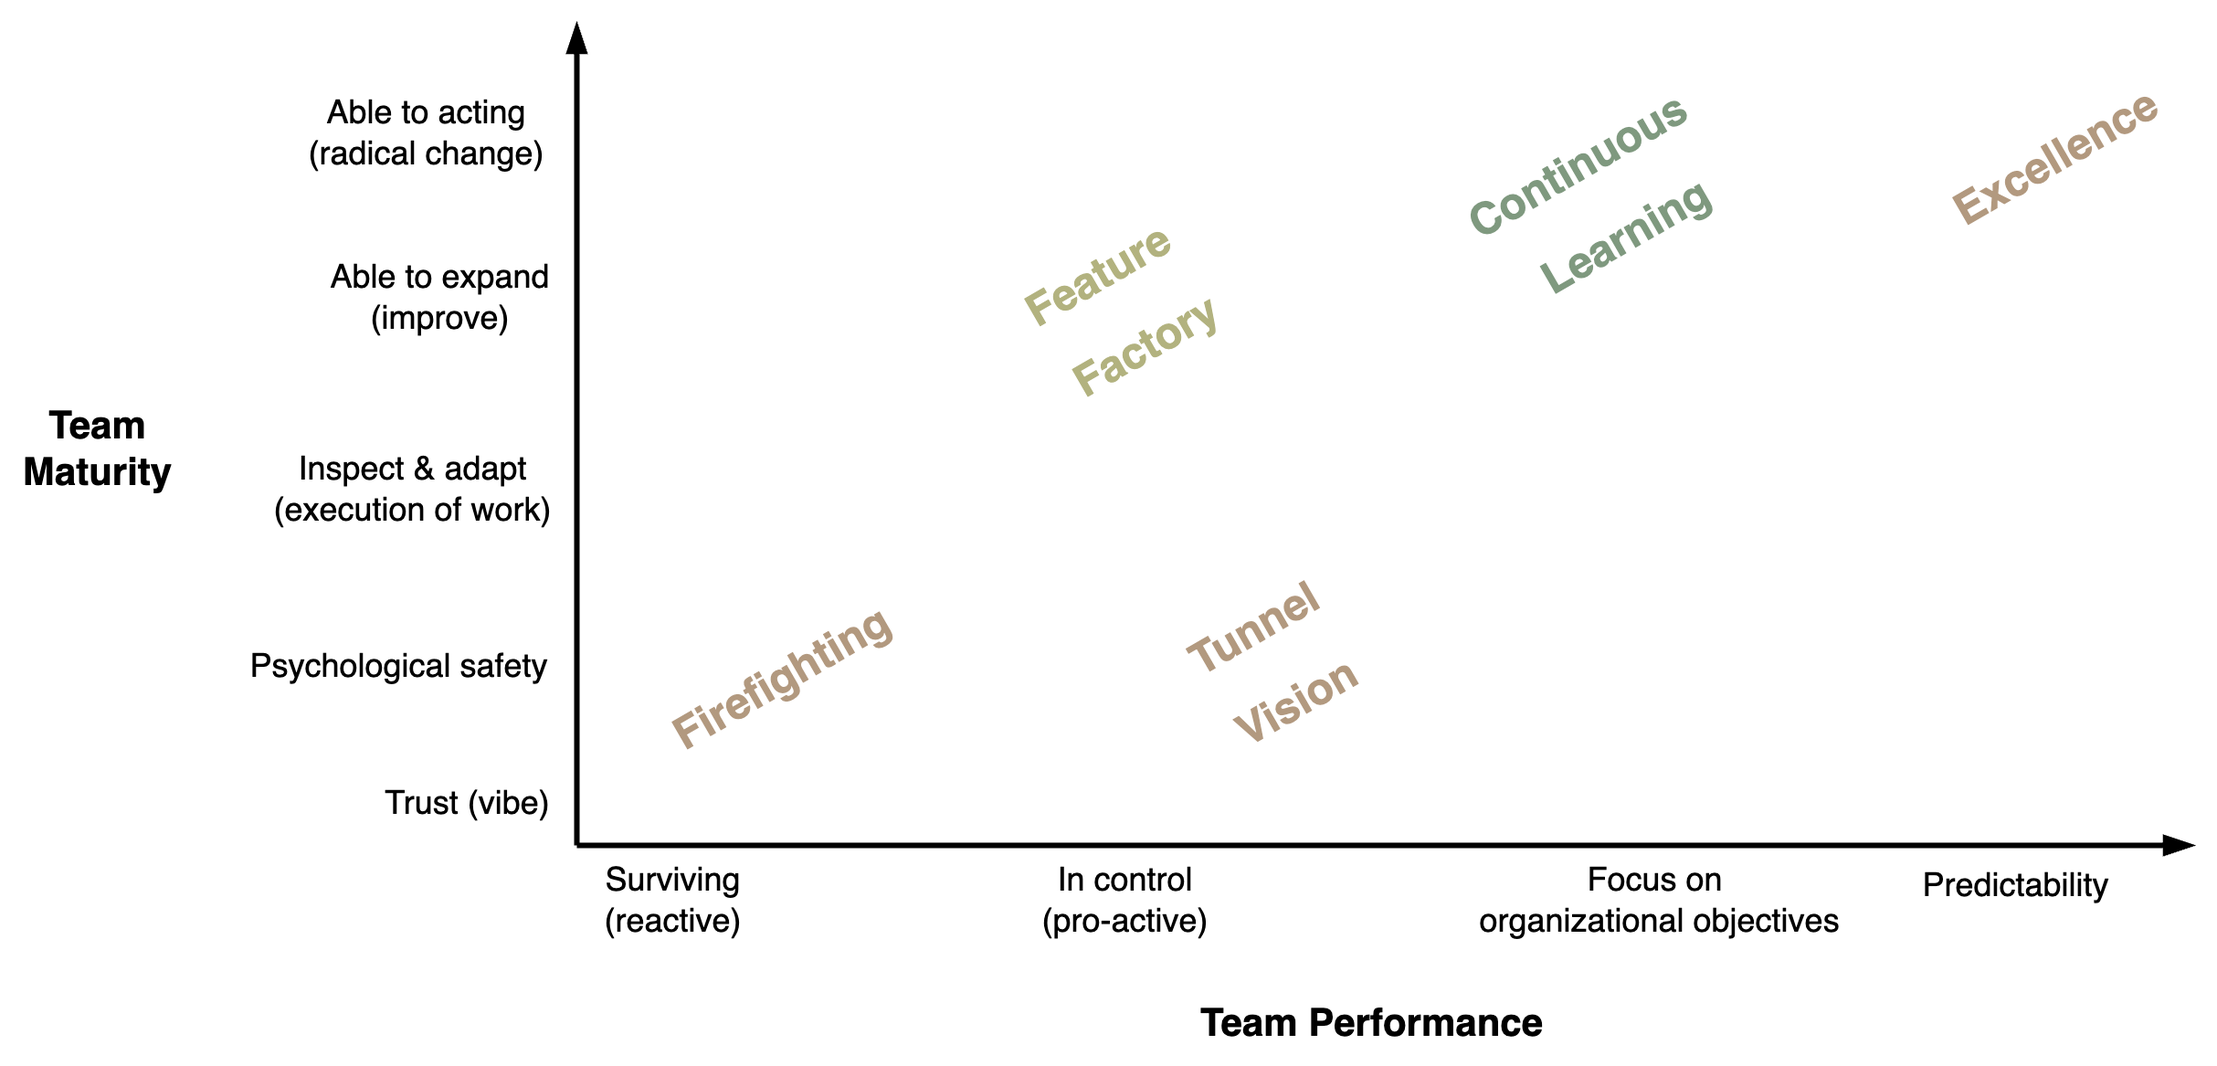
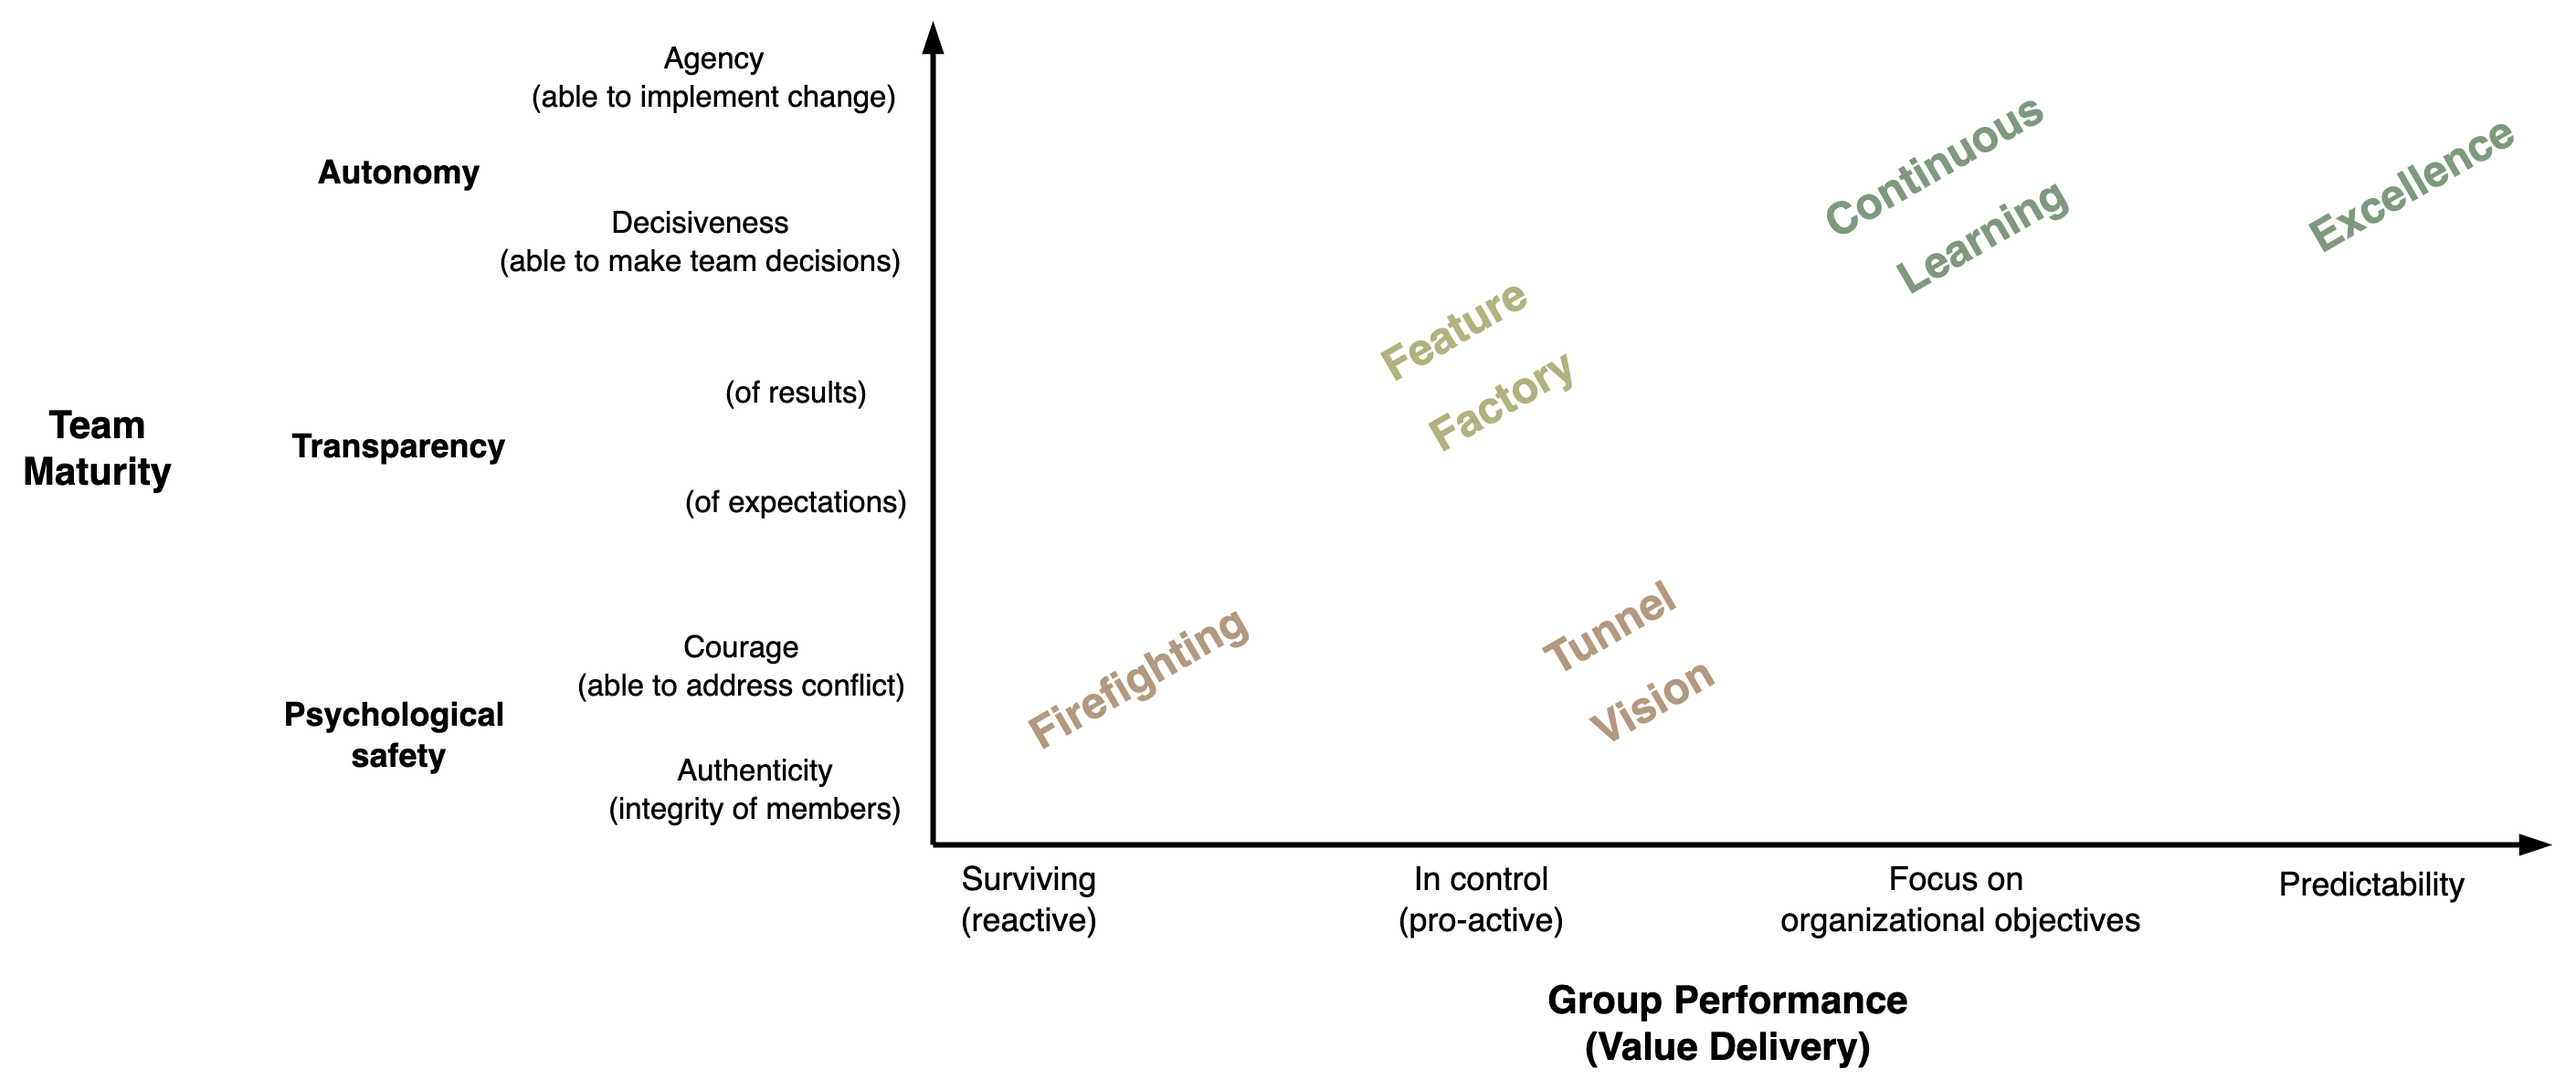
team performance

diff --git a/collaboration/teams.md b/collaboration/teams.md
@@ -25,6 +25,8 @@ A (servant) leader is not just responsible to lead its followers, but more so to
 
 ## Team Performance
 
+### Context
+
 Team performance tends to flow. It will naturally go up and down over time and it is influenced by many external factors.
 
 - In extreme cases the average performance can increase or decrease to a new level.
@@ -36,17 +38,17 @@ Team performance tends to flow. It will naturally go up and down over time and i
 
 The performance of teams and departments is the result of three key factors.
 
-|            | Value Delivery          | Value Creation   | Value Enabling              |
-| ---------- | ----------------------- | ---------------- | --------------------------- |
-| **Core**   | Products & services     | Production       | (Organizational) Capability |
-| **Target** | Customers               | Engineering      | Social dynamics             |
-| **What**   | *Build the right thing* | *Build it right* | *Ability to build*          |
+|            | Value Delivery          | Value Creation   | Value Enabling                |
+| ---------- | ----------------------- | ---------------- | ----------------------------- |
+| **Core**   | 📦 Products & services   | ⚙ Production     | 🕸 (Organizational) Capability |
+| **Target** | 👤 Customers             | 🛠 Engineering    | ❤🩹 Social dynamics            |
+| **What**   | *Build the right thing* | *Build it right* | *Ability to build*            |
 
 <img src="../img/product-production-capability.png" alt="product-production-capability" style="width:55%;" />
 
 
 
-### Value Delivery
+#### Value Delivery
 
 > Deliver value ≠ solving problems
 
@@ -70,7 +72,18 @@ In additon, value can be split up in current and potential value. The latter con
 
 
 
-## Sustainability
+#### Organizational Capability
+
+Social dynamics
+
+Factors
+
+- Team members and their dynamics. Team member satisfaction, team maturity.
+- Underlying factors: culture, principles, process
+
+<img src="../img/culture-principle-process.png" alt="culture-principle-process" style="width:50%;" />
+
+### Succes & Sustainability
 
 Team performance relates to the expectations of it's functioning. It's input and output. It is contingent on two layers.
 
@@ -80,6 +93,10 @@ Team performance relates to the expectations of it's functioning. It's input and
 
 
 <img src="../img/pyramid-team-performance-satisfaction.png" alt="pyramid-team-performance-satisfaction" style="width:60%;" />
+
+External factors
+
+- Trust. How much do stakeholders trust the team? How much transparency do they experience?
 
 
 
@@ -116,13 +133,20 @@ Two dimensions: team maturity and team performance. The former revolves around c
 
 Team maturity
 
-- Trust. Vibe. Can people sit in a room together?
-- Psychological safety. Do people address conflict?
-- Inspect & adaption of *execution* of work. Is work being done to *preserve* the organization?
-- Inspect & adaption of *improvement*. Is work being done to *expand* the organization?
-- Inspect & adaption of radical (political) *change*. Is the team able to *act* and change their identity (structure)?
+- Psychological safety
+  - Vibe. Can people sit in a room together? Are they communicating authentically?
+  - Courage. How people address conflict? Do people voice disagreement?
 
-Team performance
+- Transparancy
+  - Transparancy of expectations. Towards team members and stakeholders.
+  - Transparancy of results. Reflection of results and decisions.
+
+- Autonomy
+  - Decisiveness. Speed of decision making. Willinness to make difficult decisions.
+  - Agency. Able to implement (radical) change. Is the team able to *act* and change their identity (structure)?
+
+
+Group performance. Value delivery
 
 - Surviving. The team reacts to its environment.
 - In control. The team acts pro-actively.

diff --git a/psychology/experience.md b/psychology/experience.md
@@ -121,6 +121,8 @@ Two related concepts are.
 - Your shadow. The part of yourself that is not visible. Subconscious patterns that influence your experience.
 - Your demons. Parts of yourself that act out of guilt or shame. See [chakras](mind-body.md).
 
+> Go face your demons
+
 
 
 ## Frustration and Depression
